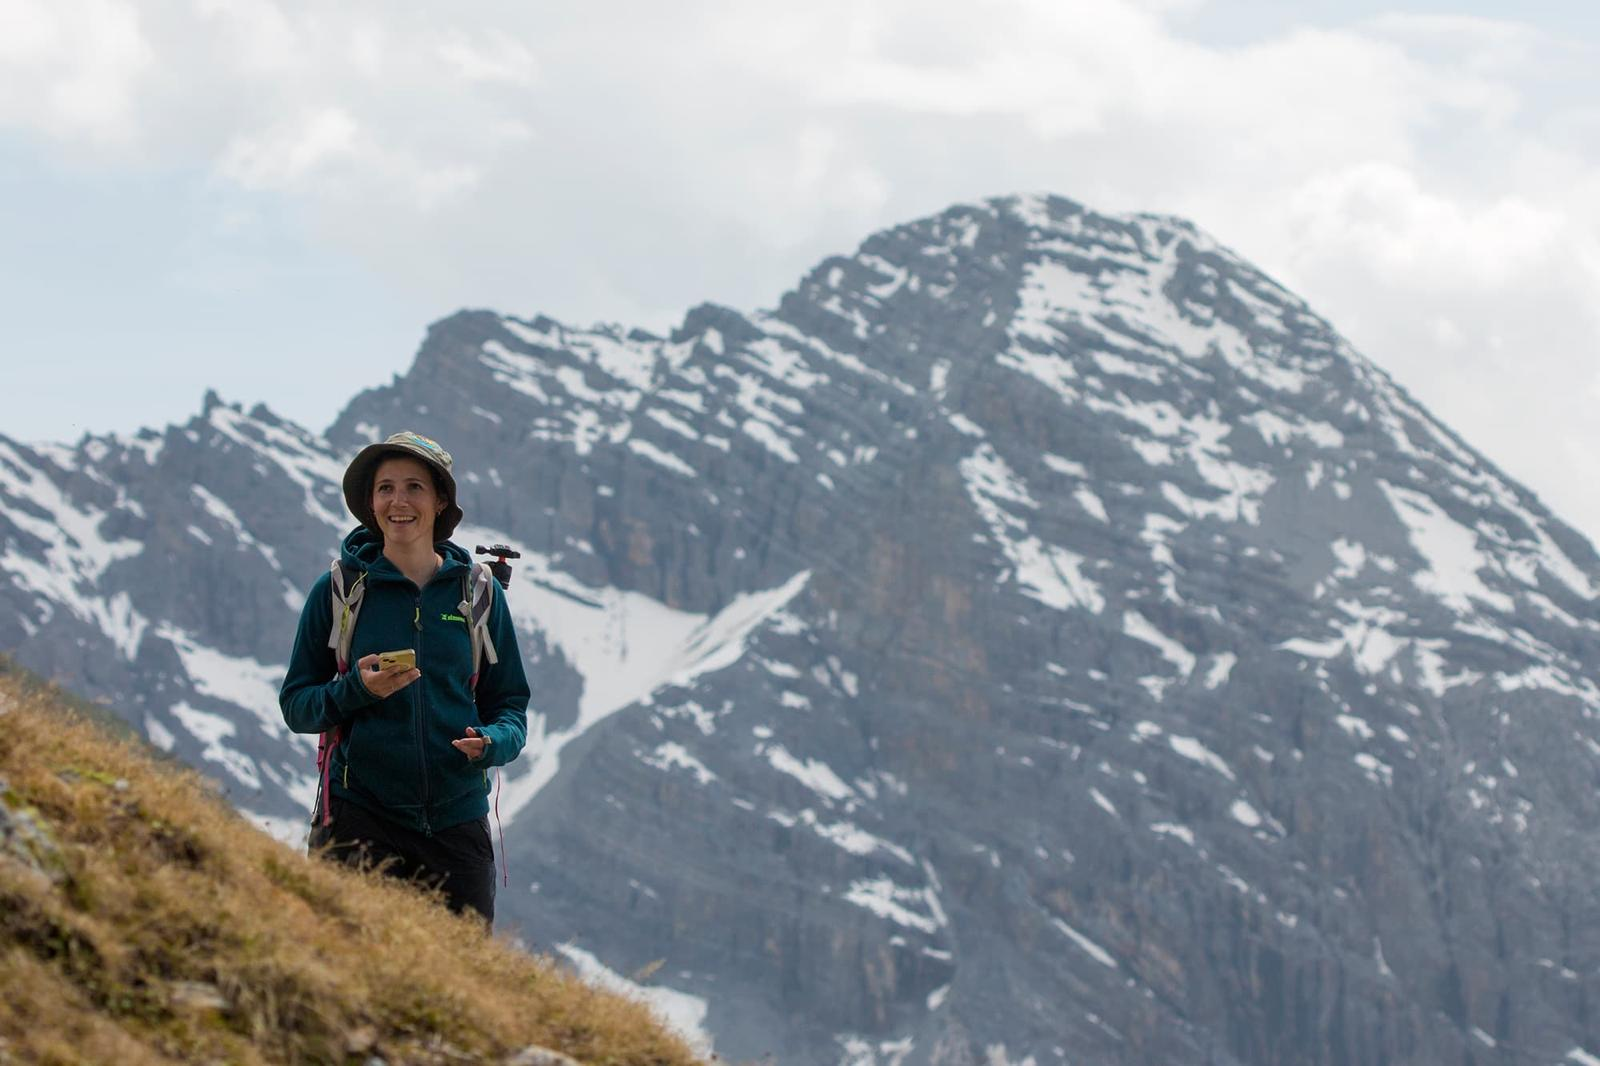
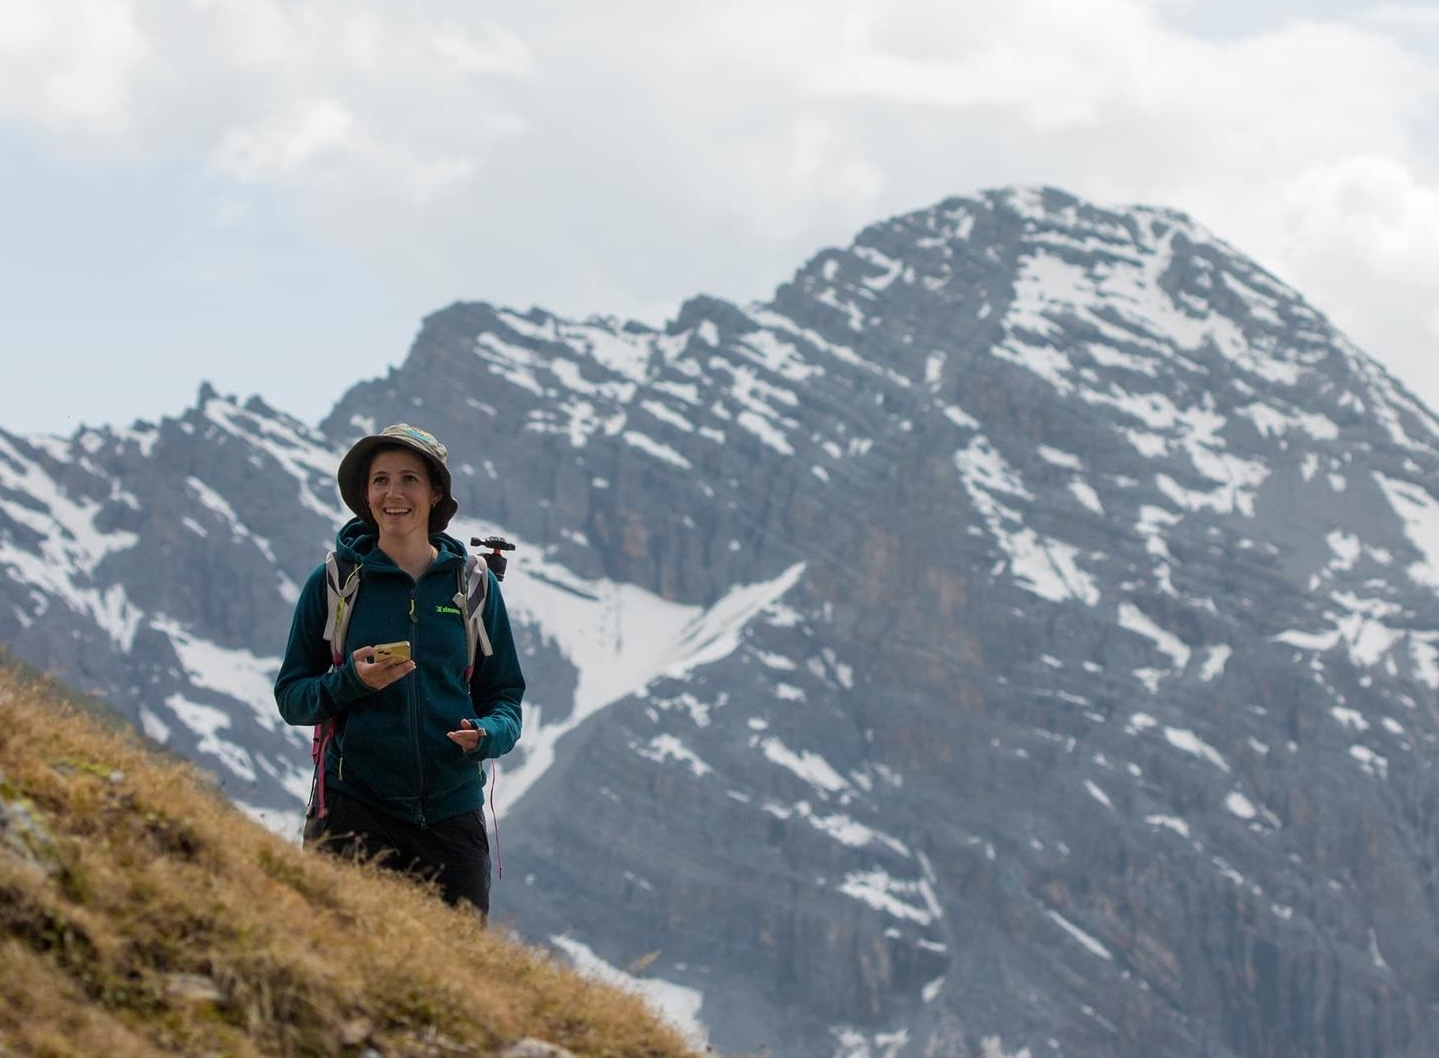
Add Claudio, Mod photo Leonardo, Claudio, Bene

diff --git a/content/people/pardo.en.md b/content/people/pardo.en.md
@@ -7,6 +7,6 @@ image: "/img/people/pardo.jpg"
 
 
 
-
+I am interested in the ecology and conservation of reptiles and amphibians. During my B.Sc. and M.Sc. studies, I focused on the phylogeography of European vipers and on behavioural syndromes in geckos. Throughout my academic training, I have participated in research projects investigating the ecology and life history of salamanders, newts, frogs (both native and invasive), and lizards. My PhD research examined the effects of anthropogenic pollution on wildlife using parthenogenetic invertebrates as model organisms, a line of research I continue to pursue in my postdoctoral work. 
 
 

diff --git a/content/people/vignoli.en.md b/content/people/vignoli.en.md
@@ -1,6 +1,6 @@
 ---
 title: "Leonardo Vignoli"
-role: "Principal Invetsigator — Associate Prof. of Zoology"
+role: "Principal Invetsigator"
 weight: 1
 image: "/img/people/vignoli1.jpg"
 email: "[email redacted]"

diff --git a/content/people/vignoli.md b/content/people/vignoli.md
@@ -1,6 +1,6 @@
 ---
 title: "Leonardo Vignoli"
-role: "Responsabile del laboratorio — Prof. Associato di Zoologia"
+role: "Responsabile del laboratorio"
 weight: 1
 image: "/img/people/vignoli1.jpg"
 email: "[email redacted]"

diff --git a/content/people/pardo.md b/content/people/pardo.md
@@ -7,3 +7,4 @@ image: "/img/people/pardo.jpg"
 
 
 
+I miei interessi di ricerca riguardano l’ecologia e la conservazione di rettili e anfibi. Nel corso della laurea triennale e magistrale ho svolto attività di ricerca sulla filogeografia delle vipere europee e sulle sindromi comportamentali nei gechi. Durante la mia formazione universitaria ho partecipato a diversi progetti di ricerca dedicati all’ecologia e alla storia vitale di salamandre, tritoni, rane (autoctone e invasive) e lucertole. Il mio progetto di dottorato è stato incentrato sugli effetti dell’inquinamento antropico sulla fauna selvatica, utilizzando invertebrati partenogenetici come organismi modello; questa linea di ricerca prosegue attualmente nella mia attività post-dottorale.